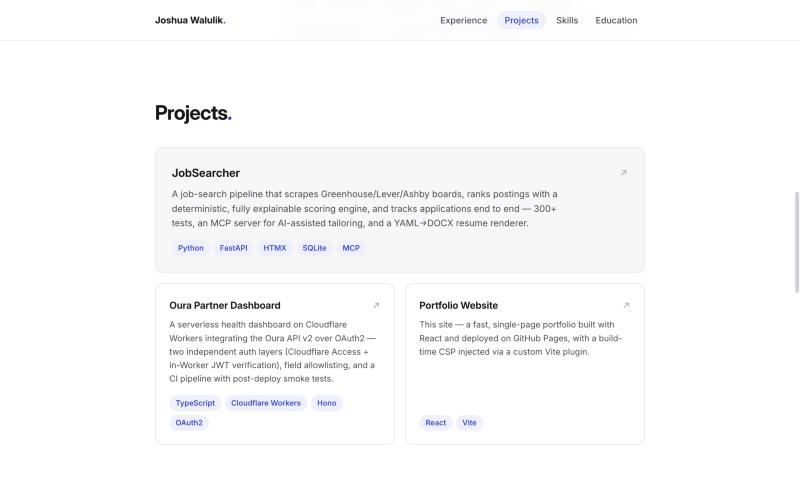
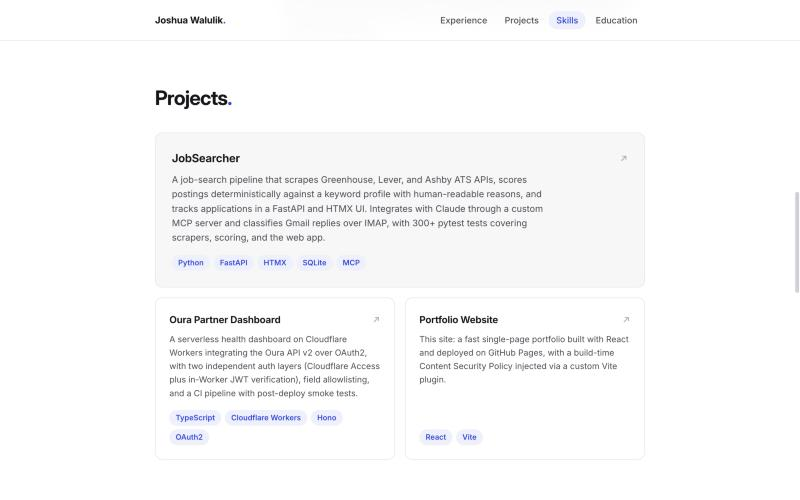
Sync content with master resume bank v20; Wells Fargo role ended
Employment at Wells Fargo ended Nov 2026, so the site no longer claims
a current role. All wording now mirrors the master resume bank (v20)
under the application-workflow rules: every claim traces to the bank,
no invented or upgraded scope, internal platform names genericized.

- Title drops 'at Wells Fargo'; bio is the bank's general summary
  variant (past tense); hero meta adds an 'Open to new opportunities'
  line in the accent color
- Experience rewritten from the bank's bullet tiers: SE-1 to SE-7 plus
  the AI-assisted development bullet (8), TA-1 to TA-4, and the intern
  bullet; dates read 'Jul 2024 - Nov 2026', 'Present' is retired;
  archived/inflated wordings ('Led UI modernization', 'recognized
  Harness expert') are gone
- Skills rebuilt from the bank categories: TypeScript, Material UI,
  Figma, Spring Boot, C#, Jest, Playwright, Splunk, Devin now listed;
  Python and SQL removed per the bank's claimability rule
- JobSearcher description uses the bank's canonical project wording;
  em dashes removed from all copy per the style rules
- Education matches the bank line (B.S., Computer Information Systems,
  May 2023); Certifications section replaced by the bank's Additional
  block: Certifications, Interests, Currently learning
- index.html meta/OG descriptions updated to match
- docs/screenshots/after refreshed to show the new content

diff --git a/src/data.js b/src/data.js
@@ -1,11 +1,16 @@
-// All site content lives here. Update this file when your resume changes.
+// All site content lives here. Wording mirrors the master resume bank (v20)
+// under its application-workflow rules: every claim traces to the bank, no
+// invented or upgraded scope, internal platform names stay genericized, and
+// Python/SQL stay off the skills lists. Update the bank first, then mirror
+// changes here.
 
 export const profile = {
   name: 'Joshua Walulik',
-  title: 'Software Engineer at Wells Fargo',
+  title: 'Software Engineer',
   location: 'Scottsdale, AZ',
+  availability: 'Open to new opportunities',
   email: 'joshuawalulik@gmail.com',
-  bio: 'Full-stack software engineer with 3+ years at Wells Fargo, working across React/Node UIs, .NET microservices, and Java microservices. I take UI modernization, APIs, CI/CD pipelines, and performance testing from design to production.',
+  bio: 'Software Engineer with 3+ years at Wells Fargo building React and TypeScript front-ends, Node.js Experience APIs, and .NET and Java Spring Boot microservices. Owned enhancements on a core loan origination service processing 25,000 to 30,000 applications daily and was the sole developer of the Experience API layer on a new full-stack system.',
   links: {
     github: 'https://github.com/joshuawalulik',
     linkedin: 'https://www.linkedin.com/in/joshuawalulik/',
@@ -16,28 +21,29 @@ export const experience = [
   {
     role: 'Software Engineer',
     company: 'Wells Fargo',
-    dates: 'Jul 2024 – Present',
-    location: 'Chandler, AZ (Hybrid)',
+    dates: 'Jul 2024 – Nov 2026',
+    location: 'Chandler, AZ',
     bullets: [
-      'Recognized as one of very few engineers in the organization proficient in all three core stacks: React/Node UI, .NET microservices, and Java microservices',
-      'Led UI modernization, migrating 6+ UI components to OpenShift Container Platform lower environments',
-      'Designed, built, and deployed business-facing UI screens in Cloud Foundry — with editing, filtering, and role-based permission features — owning the full SDLC from design to production',
-      'Developed experience APIs connecting the UI layer to domain microservices backed by MongoDB',
-      'Pioneered BlazeMeter performance testing for UI components on the team, extending coverage to Kafka topics and .NET API endpoints',
-      'Drove platform buildpack upgrades across production and lower environments, leveraging GitHub Copilot and AI-assisted tooling to improve delivery efficiency',
+      'Owned enhancements on a core .NET microservice processing 25,000 to 30,000 auto loan applications daily, part of an initiative replacing a 30-year-old Progress monolith',
+      'Built React/TypeScript screens and the Node Experience API for a campaign management tool letting business teams manage Volkswagen and Audi data used in downstream loan pricing',
+      'Extended the .NET loan application service with Ducati-specific application comments published over Kafka to downstream services, supporting a separate intake path for the partnership’s second launch phase',
+      'Diagnosed a production Kafka serialization failure during a partner pilot in under 10 minutes using Splunk log queries and shipped a same-evening fix restoring event publication',
+      'Built the Node/TypeScript Experience API and its domain service integration as sole developer on a new full-stack system (React/TypeScript, Java Spring Boot, MongoDB) routing work through an organizational hierarchy',
+      'Shipped React and TypeScript features across an internal portal of 15+ screens, including web replacements for legacy green-screen underwriter workflows, from technical design through production release',
+      'Built Java Spring Boot endpoints over MongoDB, joining two related collections in the service layer so the Experience API could serve a detailed screen without client-side assembly',
+      'Used GitHub Copilot as a daily pair and primary debugger and handed scoped tasks to Devin, reviewing every generated change manually before merge',
     ],
   },
   {
     role: 'Technology Analyst',
     company: 'Wells Fargo',
     dates: 'Jul 2023 – Jul 2024',
-    location: 'Chandler, AZ (Hybrid)',
+    location: 'Chandler, AZ',
     bullets: [
-      'Engineered Harness CI/CD pipelines that cut buildpack upgrade times to under 5 minutes; became the recognized Harness expert for the organization',
-      'Pioneered migration of the organization’s UI components from UCD to Harness — authored the migration guidelines and mentored 3 teammates',
-      'Presented the Harness pipeline solution to a leadership forum, driving adoption across the organization and leading its first production use',
-      'Built multiple UI screens for the organization’s first React/Node micro-frontend production release',
-      'Added 200+ automated test cases for a loan application service, covering multi-applicant workflows',
+      'Integrated Harness CI/CD pipelines that cut buildpack upgrade time to under 5 minutes, becoming the team’s go-to resource for CI/CD questions',
+      'Built React/TypeScript screens from Figma and business requirements for the team’s first React/Node micro-frontend production release, extending automation tests and completing release readiness',
+      'Built an automated test suite for a core loan-processing service, adding 200+ test cases and resolving MongoDB data-mapping issues',
+      'Migrated the team’s UI components off legacy deployment tooling onto Harness and wrote the migration guide three teammates used to move their own components',
     ],
   },
   {
@@ -46,8 +52,7 @@ export const experience = [
     dates: 'Jun 2022 – Aug 2022',
     location: 'Chandler, AZ',
     bullets: [
-      'Developed and improved Java APIs that populate backend databases',
-      'Gained foundational experience with enterprise development, Agile/Scrum, and financial technology systems',
+      'Built and improved backend APIs in Java that populated production databases, working inside an enterprise Agile delivery process',
     ],
   },
 ]
@@ -57,21 +62,21 @@ export const projects = [
     name: 'JobSearcher',
     tech: ['Python', 'FastAPI', 'HTMX', 'SQLite', 'MCP'],
     description:
-      'A job-search pipeline that scrapes Greenhouse/Lever/Ashby boards, ranks postings with a deterministic, fully explainable scoring engine, and tracks applications end to end — 300+ tests, an MCP server for AI-assisted tailoring, and a YAML→DOCX resume renderer.',
+      'A job-search pipeline that scrapes Greenhouse, Lever, and Ashby ATS APIs, scores postings deterministically against a keyword profile with human-readable reasons, and tracks applications in a FastAPI and HTMX UI. Integrates with Claude through a custom MCP server and classifies Gmail replies over IMAP, with 300+ pytest tests covering scrapers, scoring, and the web app.',
     link: 'https://github.com/joshuawalulik/jobsearcher',
   },
   {
     name: 'Oura Partner Dashboard',
     tech: ['TypeScript', 'Cloudflare Workers', 'Hono', 'OAuth2'],
     description:
-      'A serverless health dashboard on Cloudflare Workers integrating the Oura API v2 over OAuth2 — two independent auth layers (Cloudflare Access + in-Worker JWT verification), field allowlisting, and a CI pipeline with post-deploy smoke tests.',
+      'A serverless health dashboard on Cloudflare Workers integrating the Oura API v2 over OAuth2, with two independent auth layers (Cloudflare Access plus in-Worker JWT verification), field allowlisting, and a CI pipeline with post-deploy smoke tests.',
     link: 'https://github.com/joshuawalulik/oura-dashboard',
   },
   {
     name: 'Portfolio Website',
     tech: ['React', 'Vite'],
     description:
-      'This site — a fast, single-page portfolio built with React and deployed on GitHub Pages, with a build-time CSP injected via a custom Vite plugin.',
+      'This site: a fast single-page portfolio built with React and deployed on GitHub Pages, with a build-time Content Security Policy injected via a custom Vite plugin.',
     link: 'https://github.com/joshuawalulik/Portfolio-Site',
   },
 ]
@@ -79,40 +84,42 @@ export const projects = [
 export const skills = [
   {
     group: 'Frontend',
-    items: ['React.js', 'Node.js', 'JavaScript', 'HTML & CSS', 'Micro Frontend (MFE) Architecture'],
+    items: ['React.js', 'TypeScript', 'JavaScript', 'HTML', 'CSS', 'Micro Frontend Architecture', 'Material UI', 'Figma'],
   },
   {
     group: 'Backend',
-    items: ['.NET Microservices', 'Java', 'Experience APIs', 'REST APIs', 'MongoDB', 'Kafka', 'Python', 'SQL'],
+    items: ['Node.js', 'REST & Experience APIs', 'Java', 'Spring Boot', '.NET', 'C#', 'MongoDB', 'Kafka'],
   },
   {
-    group: 'DevOps & Cloud',
-    items: ['Harness CI/CD', 'PCF', 'OpenShift (OCP)', 'Git', 'GitHub Copilot', 'BlazeMeter'],
+    group: 'Testing & Observability',
+    items: ['Jest', 'Playwright', 'BlazeMeter', 'JMeter', 'Performance & NFR Testing', 'Splunk'],
   },
   {
-    group: 'Methodologies',
-    items: ['Agile / Scrum', 'SDLC', 'NFR Testing', 'Performance Testing'],
+    group: 'DevOps, Cloud & AI Tools',
+    items: ['Harness CI/CD', 'OpenShift', 'PCF', 'Git', 'GitHub Copilot', 'Devin'],
   },
 ]
 
 export const education = [
   {
-    school: 'Arizona State University — W. P. Carey School of Business',
-    degree: 'B.S. Computer Information Systems',
-    dates: '2019 – 2023',
+    school: 'W. P. Carey School of Business, Arizona State University',
+    degree: 'B.S., Computer Information Systems',
+    dates: 'May 2023',
     details: 'Minor in Psychology · Certificate in Applied Business Data Analytics',
   },
 ]
 
-export const certificates = [
+export const additional = [
   {
-    name: 'Microsoft Certified: Azure Fundamentals (AZ-900)',
-    issuer: 'Microsoft',
-    date: 'Aug 2022',
+    label: 'Certifications',
+    items: 'Microsoft Azure Fundamentals (AZ-900); NSE 1 Network Security Associate, Fortinet',
   },
   {
-    name: 'NSE 1 Network Security Associate',
-    issuer: 'Fortinet',
-    date: 'Sep 2022',
+    label: 'Interests',
+    items: 'Card collecting, gaming, reading, rating restaurants',
+  },
+  {
+    label: 'Currently learning',
+    items: 'Python, retrieval-augmented generation (RAG), agentic LLM workflows (Claude Code, MCP)',
   },
 ]

diff --git a/src/App.jsx b/src/App.jsx
@@ -1,5 +1,5 @@
 import { useEffect, useState } from 'react'
-import { profile, experience, projects, skills, education, certificates } from './data.js'
+import { profile, experience, projects, skills, education, additional } from './data.js'
 
 const GitHubIcon = () => (
   <svg width="16" height="16" viewBox="0 0 16 16" fill="currentColor" aria-hidden="true">
@@ -121,7 +121,10 @@ export default function App() {
           <h1>{profile.name}</h1>
           <div className="tagline">{profile.title}</div>
           <p className="bio">{profile.bio}</p>
-          <div className="meta">{profile.location}</div>
+          <div className="meta">
+            {profile.location}
+            {profile.availability ? <span className="availability"> · {profile.availability}</span> : null}
+          </div>
           <div className="hero-links">
             <a className="btn primary" href={`mailto:${profile.email}`}>
               Get in touch
@@ -207,14 +210,11 @@ export default function App() {
             </div>
           </div>
         ))}
-        <div className="certs">
-          {certificates.map((cert) => (
-            <div className="cert" key={cert.name}>
-              <div>
-                <div className="name">{cert.name}</div>
-                <div className="issuer">{cert.issuer}</div>
-              </div>
-              <div className="date">{cert.date}</div>
+        <div className="additional">
+          {additional.map((row) => (
+            <div className="additional-row" key={row.label}>
+              <div className="label">{row.label}</div>
+              <div className="items">{row.items}</div>
             </div>
           ))}
         </div>

diff --git a/src/index.css b/src/index.css
@@ -287,6 +287,10 @@ a:hover {
   color: var(--text-tertiary);
 }
 
+.hero .meta .availability {
+  color: var(--accent);
+}
+
 .hero-links {
   margin-top: 32px;
   display: flex;
@@ -603,42 +607,40 @@ a:hover {
   }
 }
 
-/* ---------- Certificates ---------- */
+/* ---------- Additional (labeled lines) ---------- */
 
-.certs {
+.additional {
   margin-top: 36px;
   border-top: 1px solid var(--border);
+  padding-top: 8px;
 }
 
-.cert {
-  display: flex;
-  justify-content: space-between;
-  align-items: baseline;
-  gap: 16px;
-  padding: 14px 0;
+.additional-row {
+  display: grid;
+  grid-template-columns: 164px 1fr;
+  gap: 28px;
+  padding: 10px 0;
 }
 
-.cert + .cert {
-  border-top: 1px solid var(--border);
-}
-
-.cert .name {
-  font-size: 15px;
-  font-weight: 600;
-  letter-spacing: -0.01em;
-}
-
-.cert .issuer {
-  font-size: 13.5px;
-  color: var(--text-secondary);
-  margin-top: 1px;
-}
-
-.cert .date {
+.additional-row .label {
   font-size: 13px;
+  font-weight: 600;
+  text-transform: uppercase;
+  letter-spacing: 0.07em;
   color: var(--text-tertiary);
-  font-variant-numeric: tabular-nums;
-  white-space: nowrap;
+  padding-top: 2px;
+}
+
+.additional-row .items {
+  font-size: 14.5px;
+  color: var(--text-secondary);
+}
+
+@media (max-width: 640px) {
+  .additional-row {
+    grid-template-columns: 1fr;
+    gap: 2px;
+  }
 }
 
 /* ---------- Footer ---------- */

diff --git a/index.html b/index.html
@@ -4,9 +4,9 @@
     <meta charset="UTF-8" />
     <meta name="viewport" content="width=device-width, initial-scale=1.0" />
     <meta name="referrer" content="strict-origin-when-cross-origin" />
-    <meta name="description" content="Joshua Walulik — full-stack software engineer at Wells Fargo working across React/Node, .NET, and Java microservices." />
+    <meta name="description" content="Joshua Walulik, software engineer building React and TypeScript front-ends, Node.js Experience APIs, and .NET and Java Spring Boot microservices." />
     <meta property="og:title" content="Joshua Walulik — Software Engineer" />
-    <meta property="og:description" content="Full-stack software engineer at Wells Fargo working across React/Node, .NET, and Java microservices." />
+    <meta property="og:description" content="Software engineer building React and TypeScript front-ends, Node.js Experience APIs, and .NET and Java Spring Boot microservices." />
     <meta property="og:type" content="website" />
     <meta property="og:url" content="https://joshuawalulik.com" />
     <link rel="icon" type="image/x-icon" href="/favicon.ico" />
